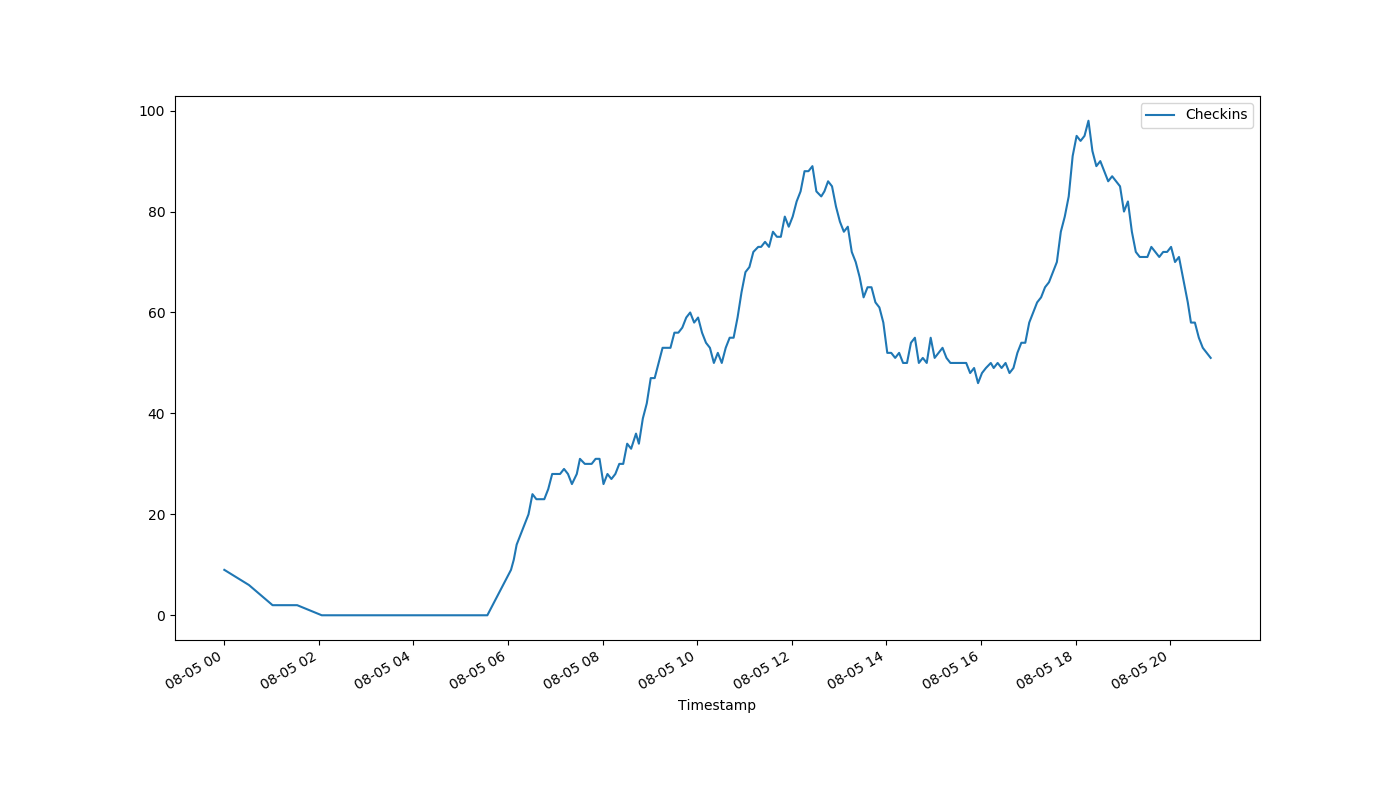
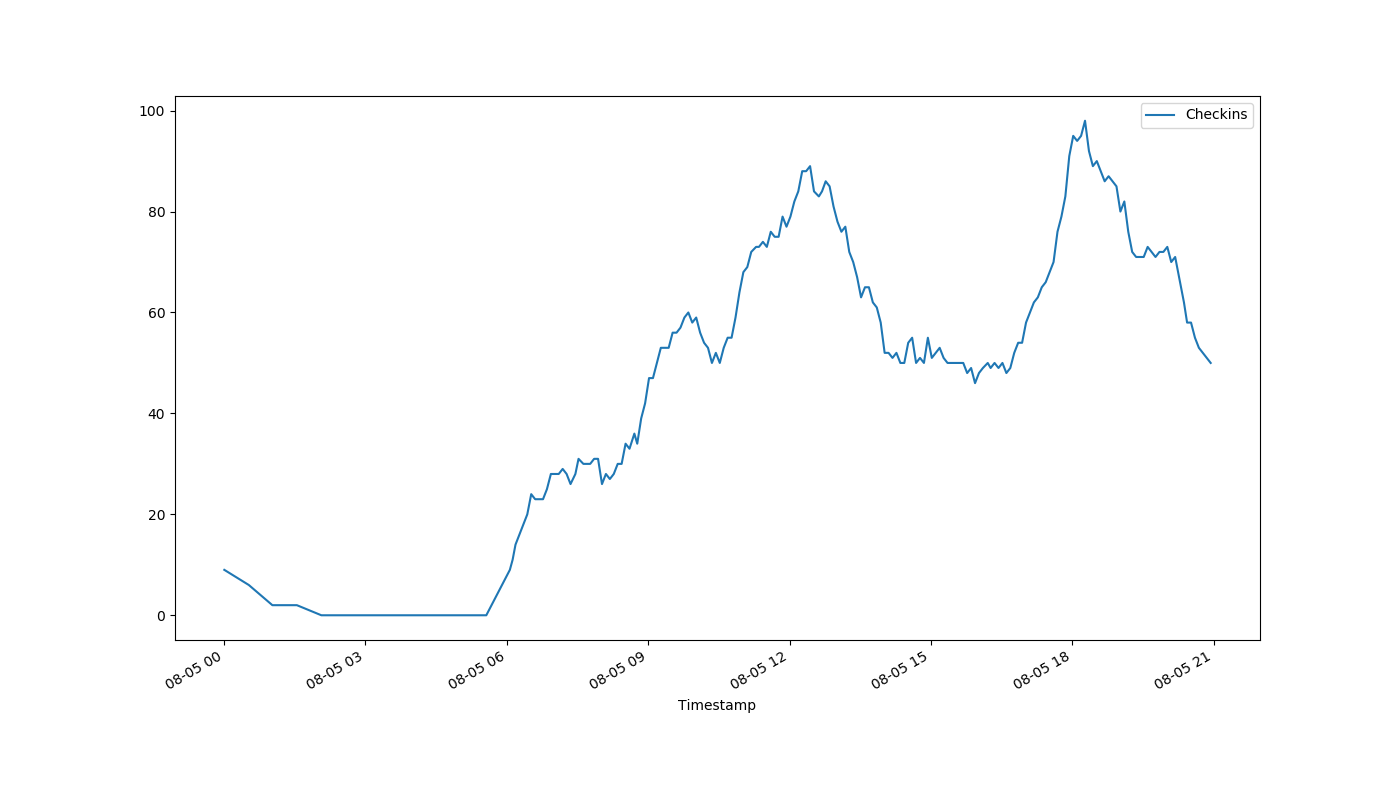
auto-Aug-05-20:58:32

diff --git a/index.html b/index.html
@@ -1,1 +1,1 @@
-<!DOCTYPE html><html><head><meta http-equiv="refresh" content="30"><link rel='stylesheet' href='holmcurrent.css'></head><body><p id='count'>51</p><div id='graph-wrap'><img id='graph' src='holmgraph-Aug-05.png'></div><p id='updated'>Last updated 20:52:08 / 20:51:16</p></body></html>
+<!DOCTYPE html><html><head><meta http-equiv="refresh" content="30"><link rel='stylesheet' href='holmcurrent.css'></head><body><p id='count'>50</p><div id='graph-wrap'><img id='graph' src='holmgraph-Aug-05.png'></div><p id='updated'>Last updated 20:57:08 / 20:56:16</p></body></html>
